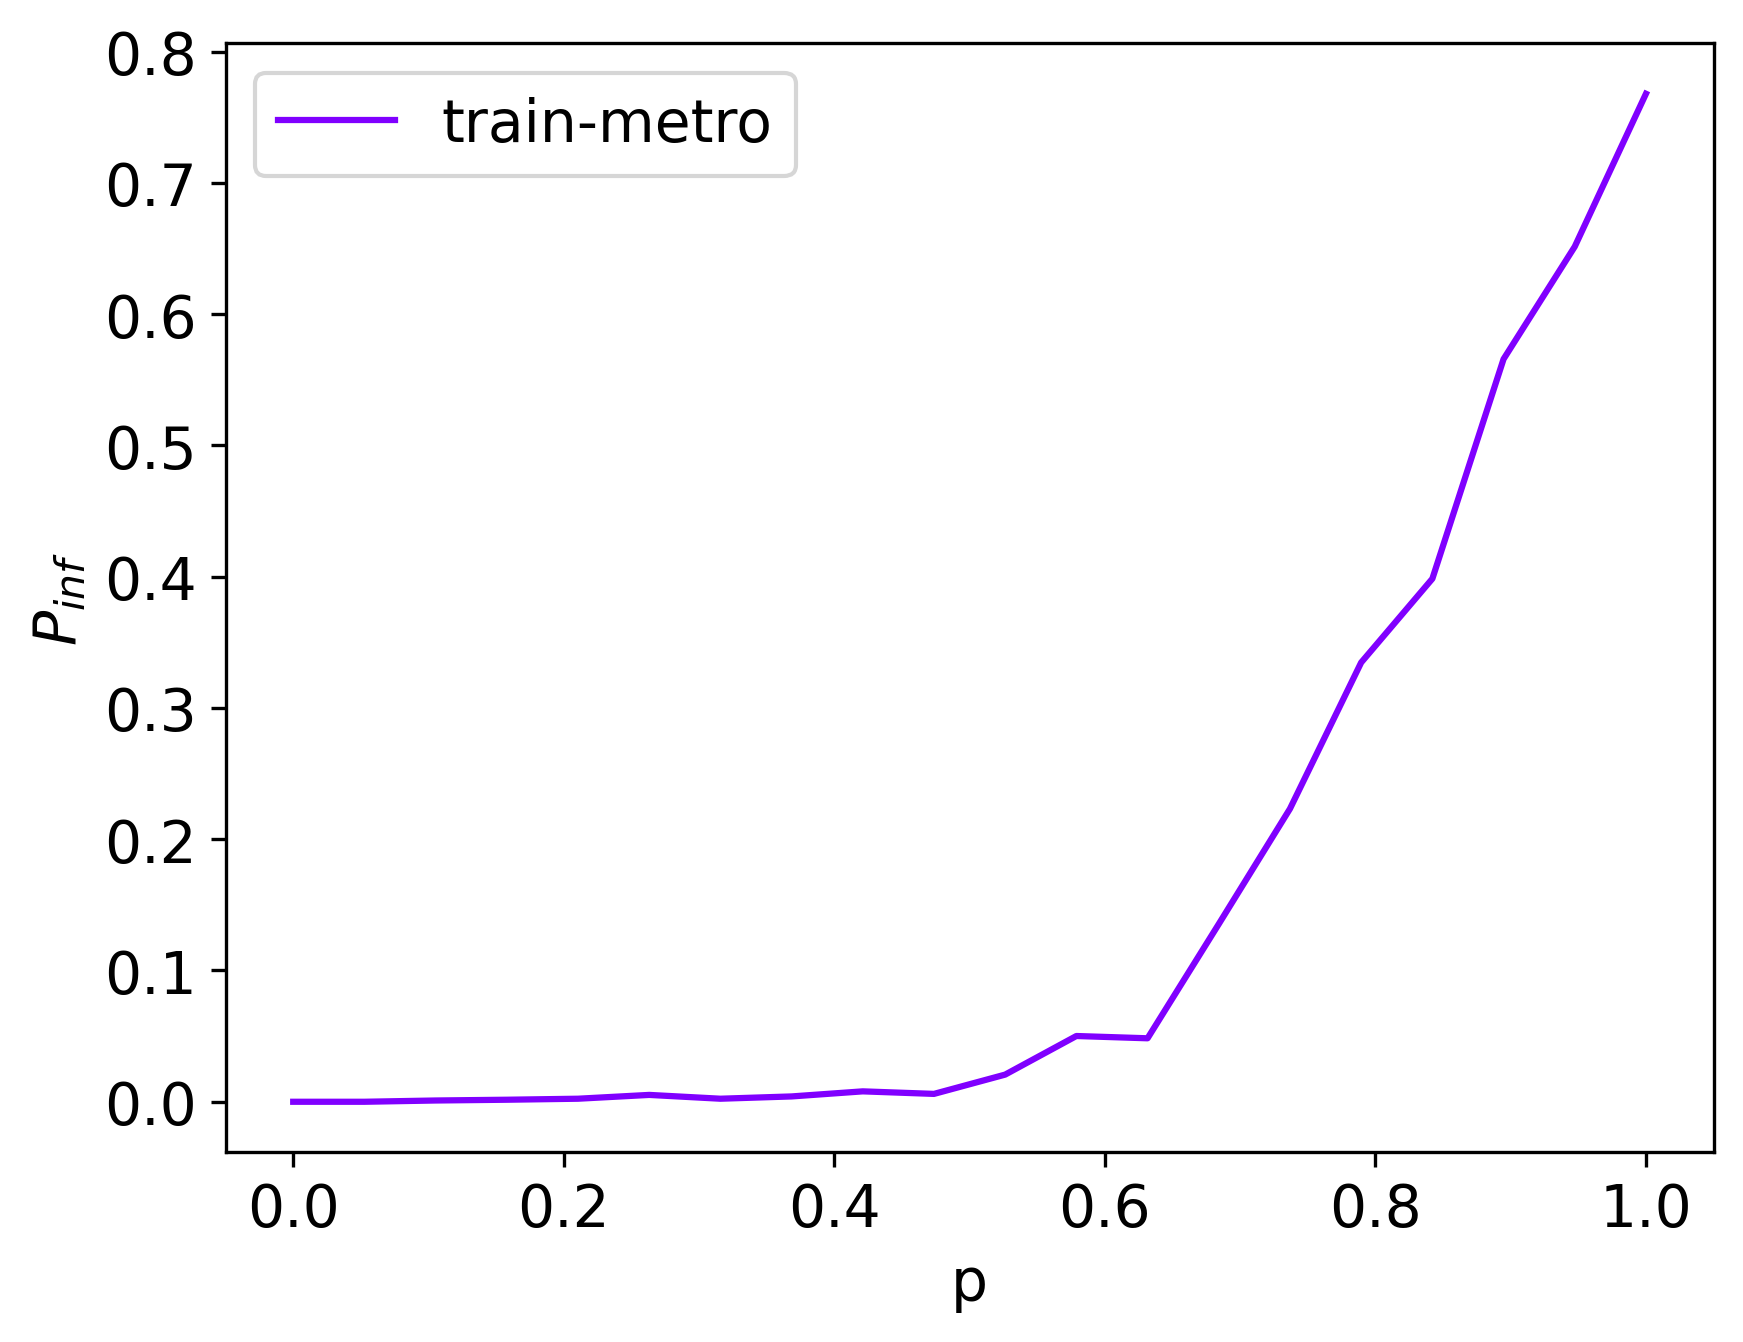
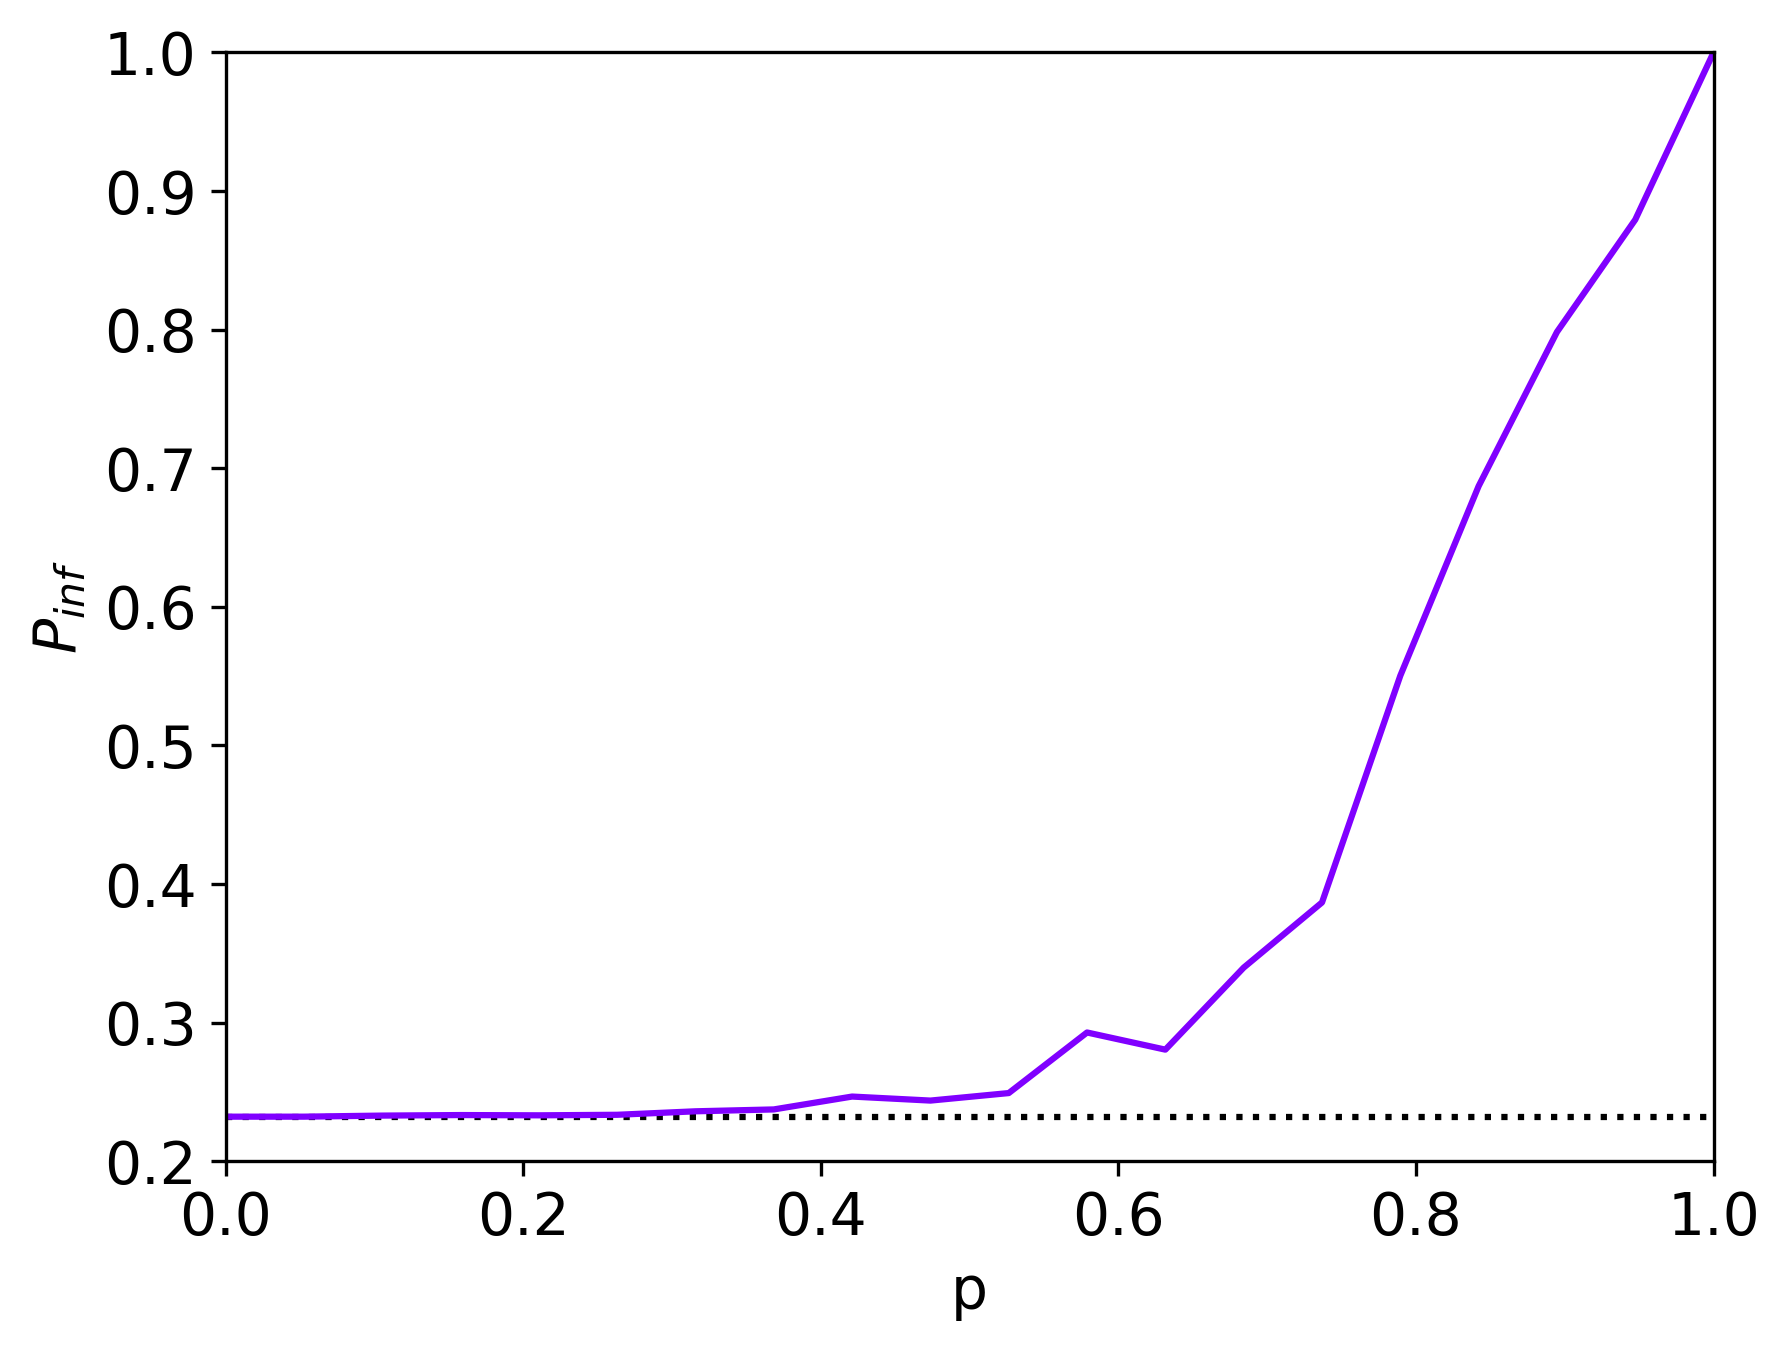
real world figures'

diff --git a/main.py b/main.py
@@ -2,6 +2,20 @@ from src.attack import *
 from src.create import *
 from src.measure import *
 
+## Analisy ER and SF Network 
+
+#ERn500k24 = generate_pinf_ER(544, 2.44, 10)
+#np.savetxt('./notebooks/results/ERn500k24.csv', ERn500k24, delimiter=',')  
+
+ERn500k24 = np.loadtxt('./notebooks/results/ERn250k4.csv',delimiter=",")
+
+plot_pinf([[ERn500k24[0],ERn500k24[1]]], path="./notebooks/figure/realWorld/ER_inter_n500_k24.png")
+
+
+#SFn500g25 = networkSF_w_3Dpos_PowerL(500, )
+
+
+'''
 ### Analysis Real data - Paris train & metro Network
 e_file = "./data/edge/edge.csv"
 n_file = "./data/vertex/vertex.csv"
@@ -23,6 +37,25 @@ print("<k> of train network: ", k_train)
 print("<k> of metro network: ", k_metro)
 print("<k> of interdependent network: ", k_int_mt)
 
+
+## draw degree distribution 
+int_degree = G_int_mt.degree()
+print(len(G_int_mt.nodes()))
+int_degrees = [int_degree[i] for i in G_int_mt.nodes()]
+print(int_degrees)
+
+
+_ = plt.hist(int_degrees, bins = 50, density = False, edgecolor="white")
+plt.yscale('log')
+
+plt.title('Degree distribution of Paris interdependent (Train-Metro) Network')
+plt.xlabel('Degree (k)')
+#plt.xlim(1,10.1)
+plt.ylabel('log (Number of nodes with k)')
+
+plt.show()
+
+'''
 '''
 ### plot p_inf of single network
 p_inf_m = generate_pinf_real_single(G_metro, t=10)
@@ -35,16 +68,21 @@ np.savetxt('./notebooks/results/single_metro_new.csv', p_inf_m, delimiter=',')
 #p_inf_t = np.loadtxt('./notebooks/results/single_train.csv', delimiter=",")
 #p_inf_m = np.loadtxt('./notebooks/results/single_metro.csv', delimiter=",")
 
-plot_pinf([p_inf_t, p_inf_m], labels=['Paris Train Network', 'Paris Metro Network'], path="./notebooks/figure/test.png")
+plot_pinf([p_inf_t, p_inf_m], labels=['Paris Train Network', 'Paris Metro Network'], path="./notebooks/figure/realWorld/pif_single_real_network.png")
 
 '''
+
+
 
 ### plot p_inf of interdependent network
 
 #pinf_int_mt = generate_pinf_real(n_file, e_file, edges_m_tr, t=10)
 #np.savetxt('./notebooks/results/Paris_train_metro_new.csv', pinf_int_mt, delimiter=',')
+'''
 
 pinf_int_mt = np.loadtxt('./notebooks/results/Paris_train_metro_new.csv', delimiter=",")
 residual = pinf_int_mt[1][0]
 
-plot_pinf([[pinf_int_mt[0], pinf_int_mt[1]-residual]], labels=["train-metro"], path='./notebooks/figure/real_int_net_scaled.png')
+plot_pinf([[pinf_int_mt[0], pinf_int_mt[1]]], path='./notebooks/figure/real_int_net_scaled.png', residual = True)
+'''
+

diff --git a/src/measure.py b/src/measure.py
@@ -96,7 +96,7 @@ def generate_pinf_SF(n=50, gamma=3, t=5, hasGraph=False, files=[]):
 
     return ps, np.array(p_infs)
 
-def generate_pinf_real(n_file, e_file, edges_crosslayer, t=5):
+def generate_pinf_real(n_file, e_file, edges_crosslayer, t=10):
 
     start = datetime.now()
 
@@ -185,7 +185,7 @@ def compute_pinf(G_att, G_init, mut=None):
     return p_inf
 
 
-def plot_pinf(results, k=1, xlim=None, labels=None, path=None, p_theory=False):
+def plot_pinf(results, k=1, xlim=None, labels=None, path=None, p_theory=False, residual=False):
     """
     plotting the figure of p*k vs p_inf
 
@@ -203,18 +203,23 @@ def plot_pinf(results, k=1, xlim=None, labels=None, path=None, p_theory=False):
     for i, res in enumerate(results):
         pks = res[0]*k
         p_infs = res[1]
-        plt.plot(pks, p_infs, c=next(color), label=labels[i])
+        #plt.plot(pks, p_infs, c=next(color), label=labels[i],linewidth=1.5)
+        plt.plot(pks, p_infs, c=next(color), linewidth=1.5)
     if p_theory :
-        plt.vlines(2.4554, ymin=0, ymax=1, colors='k', linestyles='solid', label='$p_{c}$=2.4554/<k>')
+        plt.vlines(2.4554, ymin=0, ymax=1, colors='r', linestyles='dashdot', label='$p_{c}$=2.4554/<k>')
     if k > 1:
         plt.xlabel('p<k>')
     else:
         plt.xlabel('p')
         #plt.xlabel('$P_{node}$(fail)')
+    if residual:
+    	plt.hlines(results[0][1][0], xmin=0, xmax=1,linestyles='dotted', colors='k')
     plt.ylabel('$P_{inf}$')
-    plt.xlim(xlim)
+    plt.xlim(0,1)
+    plt.ylim(0,1)
     #plt.ylabel('$P_{node}$(in Gcomponent)')
-    plt.legend()
+    if labels:
+    	plt.legend(labels)
     plt.savefig(path, dpi=300, bbox_inches='tight')
     plt.grid()
     plt.show()
